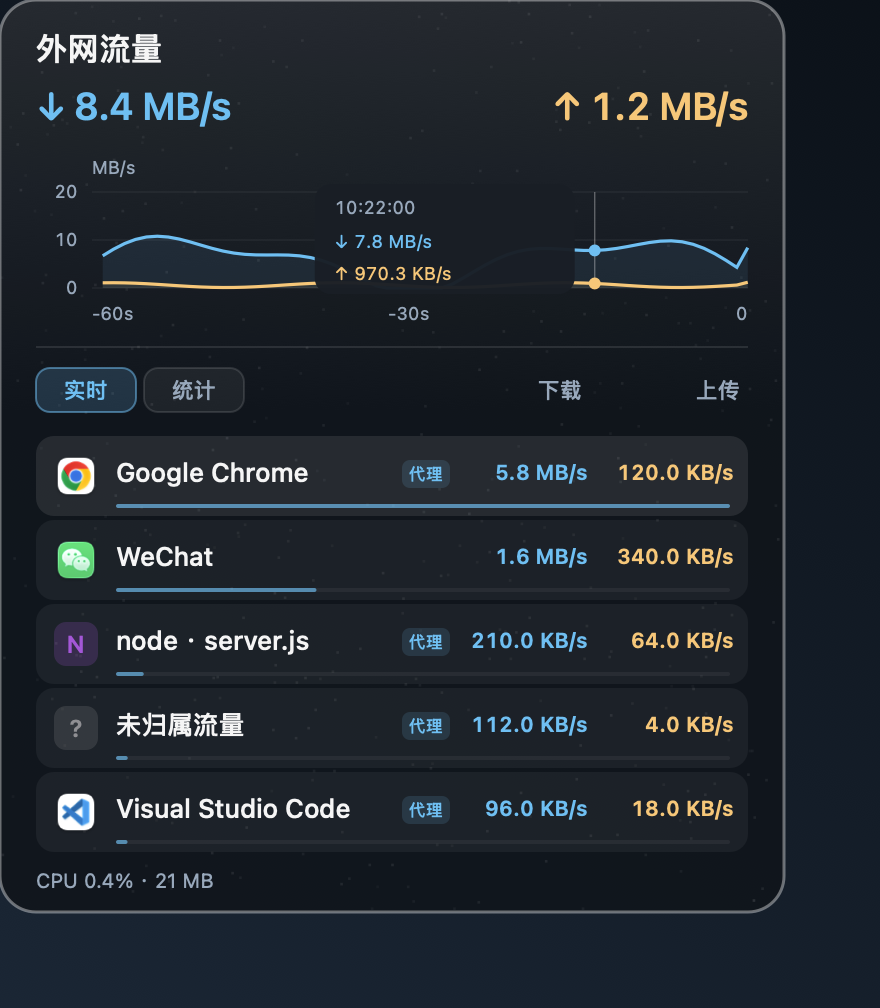
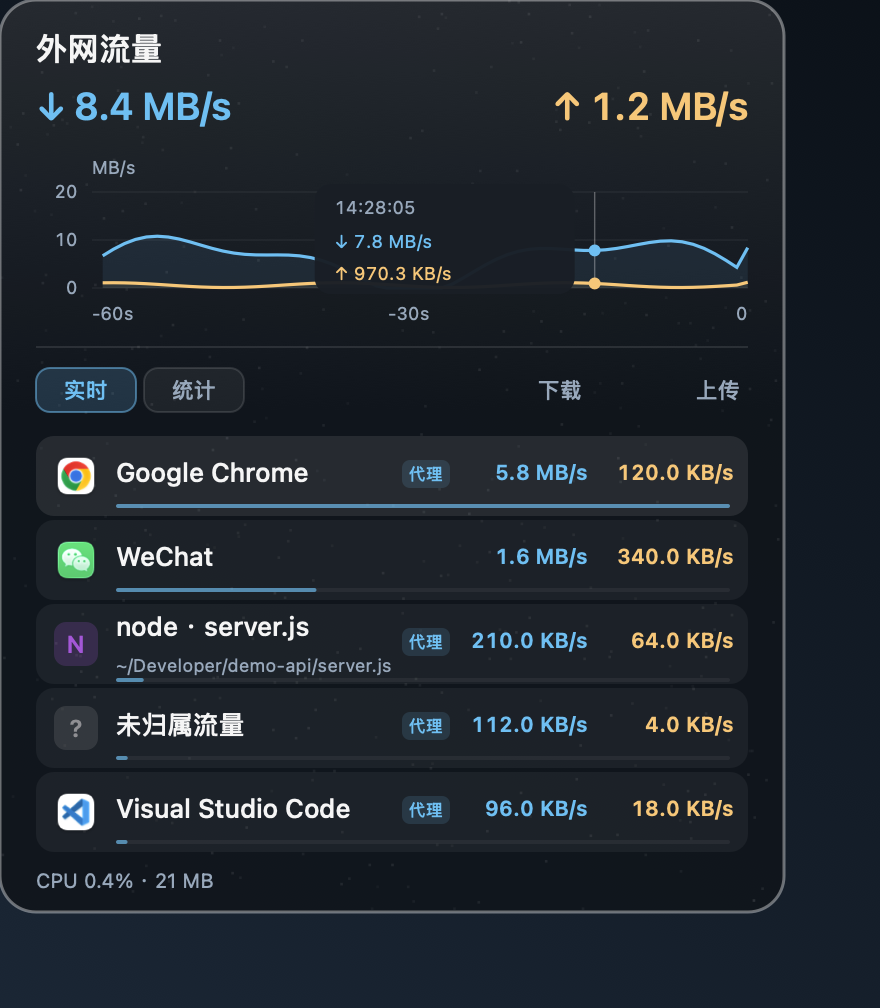
恢复脚本项目路径并修复后台悬停提示，发布 1.2.9

Changed region(s): [[0.1227, 0.6151, 0.4602, 0.6766]]

diff --git a/main.swift b/main.swift
@@ -1220,19 +1220,24 @@ final class BallView: NSView {
     weak var controller: Controller?
 
     var expanded = false {
-        didSet { if !expanded { chartHoverX = nil } }
+        didSet {
+            if !expanded { chartHoverX = nil }
+            refreshToolTipRegions()
+        }
     }
-    var rows: [Sampler.Row] = []
+    var rows: [Sampler.Row] = [] { didSet { refreshToolTipRegions() } }
     var totalRx = 0.0
     var totalTx = 0.0
     var procCount = 0
     var history: [PanelChartSample] = []
-    var showPeriodStatistics = false
+    var showPeriodStatistics = false { didSet { refreshToolTipRegions() } }
     var periodStatistics = Sampler.PeriodStatistics(since: Date(), rxBytes: 0, txBytes: 0,
-                                                    externalInterfaces: [], processes: [])
-    var statisticsScrollOffset = 0
+                                                    externalInterfaces: [], processes: []) {
+        didSet { refreshToolTipRegions() }
+    }
+    var statisticsScrollOffset = 0 { didSet { refreshToolTipRegions() } }
     var statisticsScrollAccumulator = Sampler.StatisticsScrollAccumulator()
-    private var statisticsSort = Sampler.StatisticsSortState()
+    private var statisticsSort = Sampler.StatisticsSortState() { didSet { refreshToolTipRegions() } }
     var selfCPU = 0.0
     var selfMemMB = 0.0
     var nettopCPU = 0.0
@@ -1806,7 +1811,7 @@ final class BallView: NSView {
                            index: index, y: y, fRow: fRow, fVal: fVal, w: w, pad: pad, sk: sk)
     }
 
-    /// 实时与累计共享列宽，路径留在悬停提示，不再挤占名称。
+    /// 实时与累计共享列宽；脚本进程在原有40pt行内保留身份路径。
     private func drawApplicationRow(name: String, path: String?, proxy: Bool, unassigned: Bool,
                                     rx: String, tx: String, ratio: Double, index: Int, y: CGFloat,
                                     fRow: NSFont, fVal: NSFont, w: CGFloat, pad: CGFloat, sk: PanelSkin) {
@@ -1828,8 +1833,12 @@ final class BallView: NSView {
         let valueStart = row.maxX - 145
         let badgeWidth: CGFloat = proxy ? 25 : 0
         let room = max(12, valueStart - nameX - badgeWidth - 8)
-        text(truncated(name, font: fRow, maxWidth: room), x: nameX, y: y + 10,
+        let identityPath = RuntimePathPresentation.subtitle(name: name, path: path)
+        text(truncated(name, font: fRow, maxWidth: room), x: nameX, y: y + (identityPath == nil ? 10 : 3),
              font: fRow, color: Palette.text)
+        if let identityPath {
+            drawIdentityPath(identityPath, x: nameX, y: y + 25, maxWidth: row.maxX - 9 - nameX)
+        }
         if proxy {
             let badge = NSRect(x: valueStart - 28, y: y + 12, width: 24, height: 14)
             Palette.cyan.withAlphaComponent(0.14).setFill()
@@ -1838,7 +1847,7 @@ final class BallView: NSView {
         }
         drawColumnValue(rx, x: valueStart, y: y, font: fVal, color: Palette.cyan)
         drawColumnValue(tx, x: valueStart + 73, y: y, font: fVal, color: Palette.amber)
-        let track = NSRect(x: nameX, y: y + 34, width: row.maxX - 9 - nameX, height: 2)
+        let track = NSRect(x: nameX, y: y + (identityPath == nil ? 34 : 37), width: row.maxX - 9 - nameX, height: 2)
         NSColor(white: 1, alpha: 0.05).setFill()
         NSBezierPath(roundedRect: track, xRadius: 1, yRadius: 1).fill()
         if ratio.isFinite && ratio > 0 {
@@ -1953,6 +1962,14 @@ final class BallView: NSView {
     override func viewDidMoveToWindow() {
         super.viewDidMoveToWindow()
         window?.acceptsMouseMovedEvents = true
+        // 菜单栏应用不抢焦点；系统默认禁止后台应用显示tooltip，需显式开启。
+        window?.allowsToolTipsWhenApplicationIsInactive = true
+        refreshToolTipRegions(force: true)
+    }
+
+    override func setFrameSize(_ newSize: NSSize) {
+        super.setFrameSize(newSize)
+        refreshToolTipRegions()
     }
 
     override func updateTrackingAreas() {
@@ -1960,6 +1977,7 @@ final class BallView: NSView {
         if let chartTracking { removeTrackingArea(chartTracking) }
         let area = NSTrackingArea(rect: .zero, options: [.mouseMoved, .mouseEnteredAndExited, .activeAlways, .inVisibleRect], owner: self)
         addTrackingArea(area); chartTracking = area
+        refreshToolTipRegions()
     }
 
     override func mouseMoved(with event: NSEvent) {
@@ -2083,14 +2101,52 @@ final class BallView: NSView {
         controller?.toggleExpanded()
     }
 
+    private(set) var registeredToolTipRects: [NSRect] = []
+    private(set) var toolTipRegistrationGeneration = 0
+    private var registeredToolTipKeys: [String] = []
+
+    private func rowToolTipStrings() -> [String] {
+        let identities: [(String?, Bool)]
+        if showPeriodStatistics {
+            identities = periodStatistics.sortedProcesses(
+                byUpload: statisticsSort.column == .upload, ascending: statisticsSort.ascending)
+                .dropFirst(max(0, statisticsScrollOffset)).prefix(5)
+                .map { ($0.fullPath, $0.isUnassigned && $0.viaProxy) }
+        } else {
+            identities = rows.prefix(5).map { ($0.fullPath, $0.isUnassigned && $0.viaProxy) }
+        }
+        return identities.map { path, unassigned in
+            if unassigned { return "Clash：尚不能确认具体应用的代理连接；不是物理总量减去明细的剩余值。" }
+            guard let path, !path.isEmpty else { return "" }
+            return "完整路径：\n\(path)"
+        }
+    }
+
+    /// 按行安装；只有几何或身份变化才重建，速率更新和cursor重置不打断悬停等待。
+    private func refreshToolTipRegions(force: Bool = false) {
+        var rects: [NSRect] = []
+        var keys: [String] = []
+        if expanded, window != nil {
+            for (index, value) in rowToolTipStrings().enumerated() where !value.isEmpty {
+                let rect = NSRect(x: Metrics.pad, y: Metrics.rowsY + CGFloat(index) * 42,
+                                  width: Metrics.panelW - 2 * Metrics.pad, height: 40)
+                if bounds.contains(rect) { rects.append(rect); keys.append(value) }
+            }
+            let footer = NSRect(x: Metrics.pad, y: Metrics.panelH - 24,
+                                width: Metrics.panelW - 2 * Metrics.pad, height: 24)
+            if bounds.contains(footer) { rects.append(footer); keys.append("资源读数") }
+        }
+        guard force || rects != registeredToolTipRects || keys != registeredToolTipKeys else { return }
+        removeAllToolTips()
+        registeredToolTipRects = rects
+        registeredToolTipKeys = keys
+        toolTipRegistrationGeneration += 1
+        for rect in rects { addToolTip(rect, owner: self, userData: nil) }
+    }
+
     override func resetCursorRects() {
         super.resetCursorRects()
-        removeAllToolTips()
         guard expanded else { return }
-        addToolTip(NSRect(x: Metrics.pad, y: Metrics.rowsY, width: Metrics.panelW - 2 * Metrics.pad, height: 208),
-                       owner: self, userData: nil)
-        addToolTip(NSRect(x: Metrics.pad, y: Metrics.panelH - 24, width: Metrics.panelW - 2 * Metrics.pad, height: 24),
-                   owner: self, userData: nil)
         addCursorRect(liveTabRect, cursor: .pointingHand)
         addCursorRect(statisticsTabRect, cursor: .pointingHand)
         if showPeriodStatistics {
@@ -2112,21 +2168,8 @@ final class BallView: NSView {
         let withinRow = offset - CGFloat(index) * 42
         guard index < 5, withinRow < 40 else { return "" }
 
-        let fullPath: String?
-        let unassigned: Bool
-        if showPeriodStatistics {
-            let sorted = periodStatistics.sortedProcesses(
-                byUpload: statisticsSort.column == .upload, ascending: statisticsSort.ascending)
-            let processIndex = statisticsScrollOffset + index
-            fullPath = processIndex < sorted.count ? sorted[processIndex].fullPath : nil
-            unassigned = processIndex < sorted.count && sorted[processIndex].isUnassigned && sorted[processIndex].viaProxy
-        } else {
-            fullPath = index < rows.count ? rows[index].fullPath : nil
-            unassigned = index < rows.count && rows[index].isUnassigned && rows[index].viaProxy
-        }
-        if unassigned { return "Clash：尚不能确认具体应用的代理连接；不是物理总量减去明细的剩余值。" }
-        guard let fullPath else { return "" }
-        return "完整路径：\n\(fullPath)"
+        let values = rowToolTipStrings()
+        return index < values.count ? values[index] : ""
     }
 
     override func scrollWheel(with event: NSEvent) {
@@ -3482,7 +3525,53 @@ if argv.contains("--stats-test") {
                                               point: NSPoint(x: 60, y: Metrics.rowsY + 5), userData: nil)
     precondition(statisticsTooltip == "完整路径：\n/Users/me/Project/server.js")
 
-    print("统计/身份自检通过：物理总量独立、连接归属与去重、API 故障/重启/重置基线、回环排除、应用合并、路径隐私、滚动与排序")
+    // 离屏验证窗口策略和区域生命周期；真实系统tooltip显示仍需本机悬停验收。
+    _ = NSApplication.shared
+    let tooltipWindow = NSWindow(contentRect: tooltipView.frame, styleMask: [.borderless],
+                                 backing: .buffered, defer: false)
+    tooltipWindow.isReleasedWhenClosed = false
+    tooltipWindow.contentView = tooltipView
+    precondition(tooltipWindow.allowsToolTipsWhenApplicationIsInactive)
+    precondition(!tooltipWindow.isVisible && !tooltipWindow.isKeyWindow, "路径提示不应靠抢焦点启用")
+    precondition(tooltipView.registeredToolTipRects.count == 2, "路径行和资源读数应分别注册")
+    let registration = tooltipView.toolTipRegistrationGeneration
+    tooltipView.resetCursorRects()
+    let unchangedIdentities = tooltipView.periodStatistics
+    tooltipView.periodStatistics = Sampler.PeriodStatistics(
+        since: unchangedIdentities.since, rxBytes: unchangedIdentities.rxBytes + 1,
+        txBytes: unchangedIdentities.txBytes, externalInterfaces: unchangedIdentities.externalInterfaces,
+        processes: unchangedIdentities.processes)
+    precondition(tooltipView.toolTipRegistrationGeneration == registration, "普通数值刷新不能打断悬停等待")
+    tooltipView.showPeriodStatistics = false
+    tooltipView.rows.append(Sampler.Row(name: "node · other", pid: 2, rx: 20, tx: 0, fullPath: "/tmp/Other"))
+    precondition(tooltipView.registeredToolTipRects.count == 3)
+    precondition(tooltipView.registeredToolTipRects[1].minY - tooltipView.registeredToolTipRects[0].maxY == 2)
+    precondition(tooltipView.view(tooltipView, stringForToolTip: 0,
+                                 point: NSPoint(x: 60, y: Metrics.rowsY + 41), userData: nil).isEmpty)
+    precondition(tooltipView.view(tooltipView, stringForToolTip: 0,
+                                 point: NSPoint(x: 60, y: Metrics.rowsY + 47), userData: nil) == "完整路径：\n/tmp/Other")
+    let beforeIdentityChange = tooltipView.toolTipRegistrationGeneration
+    tooltipView.rows[1].fullPath = "/tmp/Changed"
+    precondition(tooltipView.toolTipRegistrationGeneration > beforeIdentityChange, "身份变化必须更新区域")
+    tooltipView.periodStatistics = Sampler.PeriodStatistics(
+        since: Date(), rxBytes: 6, txBytes: 0, externalInterfaces: [],
+        processes: [Sampler.ProcessTotal(name: "node · A", rxBytes: 3, txBytes: 0, viaProxy: false, fullPath: "/tmp/A"),
+                    Sampler.ProcessTotal(name: "node · B", rxBytes: 2, txBytes: 0, viaProxy: false, fullPath: "/tmp/B"),
+                    Sampler.ProcessTotal(name: "node · C", rxBytes: 1, txBytes: 0, viaProxy: false, fullPath: "/tmp/C")])
+    tooltipView.showPeriodStatistics = true
+    tooltipView.statisticsScrollOffset = 1
+    precondition(tooltipView.view(tooltipView, stringForToolTip: 0,
+                                 point: NSPoint(x: 60, y: Metrics.rowsY + 5), userData: nil) == "完整路径：\n/tmp/B")
+    tooltipView.expanded = false
+    precondition(tooltipView.registeredToolTipRects.isEmpty)
+    tooltipView.setFrameSize(NSSize(width: 140, height: 140))
+    tooltipView.expanded = true
+    precondition(tooltipView.registeredToolTipRects.isEmpty, "展开前不能把超出视图的区域误记为已安装")
+    tooltipView.setFrameSize(NSSize(width: Metrics.panelW, height: Metrics.panelH))
+    precondition(tooltipView.registeredToolTipRects.count == 3, "尺寸恢复后应重新安装路径区域")
+    precondition(Metrics.panelH == 456 && Metrics.rowsBottom == 426, "恢复路径不增加面板或列表高度")
+
+    print("统计/身份自检通过：物理总量独立、连接归属与去重、API 故障/重启/重置基线、回环排除、应用合并、路径隐私、后台悬停区域、滚动与排序")
     exit(0)
 }
 

diff --git a/PanelPresentation.swift b/PanelPresentation.swift
@@ -149,6 +149,20 @@ final class PanelIconCache {
     }
 }
 
+/// 只为脚本运行时恢复身份路径；沿用已采集路径，不猜项目根目录，也不读取命令行。
+enum RuntimePathPresentation {
+    static func subtitle(name: String, path: String?) -> String? {
+        guard let path, !path.isEmpty, (path as NSString).isAbsolutePath,
+              URL(fileURLWithPath: path).pathExtension.lowercased() != "app" else { return nil }
+        let runtime = name.split(separator: "·", maxSplits: 1).first?
+            .trimmingCharacters(in: .whitespacesAndNewlines).lowercased() ?? ""
+        let runtimes: Set<String> = ["node", "nodejs", "bun", "deno", "uv", "python", "python2", "python3", "ruby", "perl", "php"]
+        let pythonVersion = runtime.hasPrefix("python") && !runtime.dropFirst(6).isEmpty
+            && runtime.dropFirst(6).allSatisfy { $0.isNumber || $0 == "." }
+        return runtimes.contains(runtime) || pythonVersion ? path : nil
+    }
+}
+
 /// 返回失败说明；不启动应用、不查网络、不创建测试文件。
 enum PanelPresentationTests {
     static func run() -> [String] {
@@ -203,6 +217,17 @@ enum PanelPresentationTests {
         let huge = PanelChartModel(samples: [sample(0, .greatestFiniteMagnitude, 0)], end: end)
         check(huge.maxValue.isFinite && huge.tickValues.allSatisfy(\.isFinite), "极大峰值不能让坐标轴溢出")
         check(huge.tickValues.last == huge.maxValue, "最高刻度覆盖峰值")
+
+        check(RuntimePathPresentation.subtitle(name: "node · api", path: "/Users/me/Project A") == "/Users/me/Project A", "已有项目目录不能再取父目录")
+        check(RuntimePathPresentation.subtitle(name: "node · server.js", path: "/Users/me/api/server.js") == "/Users/me/api/server.js", "脚本路径保持原始身份，不猜目录")
+        check(RuntimePathPresentation.subtitle(name: "nodejs", path: "/tmp/项目") == "/tmp/项目", "Node别名和中文路径可显示")
+        check(RuntimePathPresentation.subtitle(name: "python3.13", path: "/tmp/tool.py") == "/tmp/tool.py", "版本化脚本运行时可显示已有路径")
+        check(RuntimePathPresentation.subtitle(name: "uv", path: "/Users/me/.local/bin/uv") != nil, "uv保留已采集的可执行路径")
+        for (name, path) in [("Google Chrome", "/Applications/Google Chrome.app"), ("node", "/Applications/Runtime.app"),
+                             ("node-tools", "/tmp/project"), ("node", "relative.js"), ("node", "")] {
+            check(RuntimePathPresentation.subtitle(name: name, path: path) == nil, "普通应用或无效身份不添加路径副标题")
+        }
+        check(RuntimePathPresentation.subtitle(name: "node", path: nil) == nil, "缺失路径不能伪造目录")
 
         var loads: [String: Int] = [:]
         let image = NSImage(size: NSSize(width: 16, height: 16))
